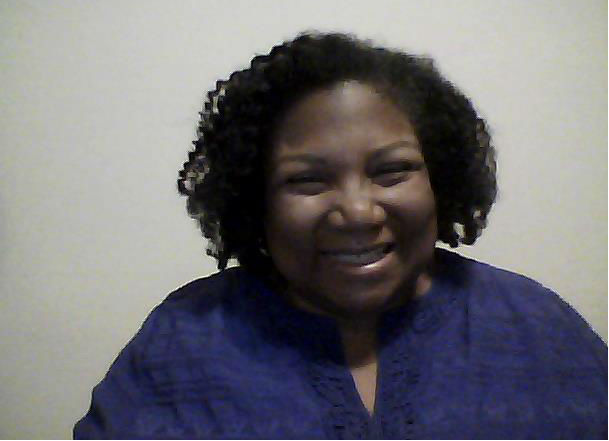
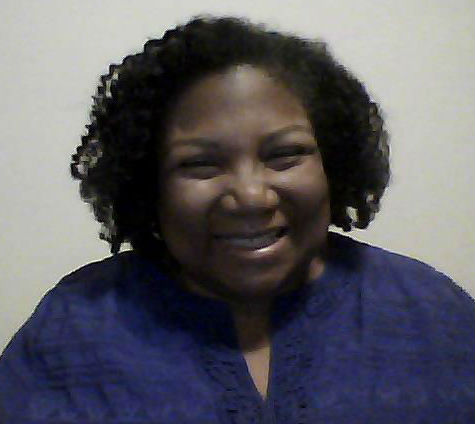
edited about me page

diff --git a/about.html b/about.html
@@ -14,9 +14,9 @@
 
         <meta name="author" content="">
 
-        
 
-        <title>:: avana LLC | About ::</title>
+
+        <title>About Annette</title>
 
 		<link rel="shortcut icon" href="images/favicon.ico" type="image/x-icon">
 
@@ -25,6 +25,7 @@
         <!-- style -->
 
         <link href="css/style.css" rel="stylesheet" type="text/css">
+        <link href="https://fonts.googleapis.com/css?family=Bungee+Hairline" rel="stylesheet">
 
         <!-- style -->
 
@@ -44,7 +45,7 @@
 
         <!-- font-awesome -->
 
-        
+
 
 	</head>
 
@@ -52,19 +53,19 @@
 
     <body>
 
-    
 
-    	<!-- header -->
 
-        	<header role="header">
+      <!-- header -->
 
-            	<div class="container">
+          <header role="header">
 
-                	<!-- logo -->
+              <div class="container">
 
-                    	<h1>
+                  <!-- logo -->
 
-                        	<a href="index.html" title="avana LLC"><img src="images/logo.png" title="avana LLC" alt="avana LLC"/></a>
+                      <h1 id="logo">
+
+                          <a href="index.html" title="Annette Olney">Annette Olney</a>
 
                         </h1>
 
@@ -76,9 +77,9 @@
 
                         <ul>
 
-                            <li><a href="index.html" title="Work">Work</a></li>
+                            <li class="nav-active"><a href="index.html" title="Work">Work</a></li>
 
-                            <li class="nav-active"><a href="about.html" title="About">About</a></li>
+                            <li><a href="about.html" title="About">About</a></li>
 
                             <li><a href="blog.html" title="Blog">Blog</a></li>
 
@@ -100,47 +101,45 @@
 
         <main role="main-inner-wrapper" class="container">
 
-        	
+
 
             <div class="row">
 
-            
+
 
             	<section class="col-xs-12 col-sm-6 col-md-6 col-lg-6 ">
 
                 	<article role="pge-title-content">
 
-                    	<header>
 
-                        	<h2><span>We Do</span> What we love to do.</h2>
+                        <img src="images/home-images/mainphoto2.jpg" alt="" />
+                        <header>
 
-                        </header>
 
-                        <p>Over 40,000 customers use our themes to power their websites and we love them.</p>
+                      </header>
 
                     </article>
 
                 </section>
 
-                
+
 
                 <section class="col-xs-12 col-sm-6 col-md-6 col-lg-6">
 
                 	<article class="about-content">
+                    <h2>About me</h2>
 
                     	<p>Claritas est etiam processus dynamicus, qui sequitur mutationem consuetudium lectorum. Mirum est notare quam littera gothica, quam nunc putamus parum claram, anteposuerit litterarum formas humanitatis per seacula quarta decima et quinta decima. Eodem modo typi, qui nunc, fiant sollemnes in futurum.</p>
-
-                        <p>Claritas est etiam processus dynamicus, qui sequitur mutationem consueum formas humanitatis per seacula quarta deciEodem modo tythepi, qui nunc, fiant sollemnes in futurum.</p>
 
                     </article>
 
                 </section>
 
-                
+
 
                 <div class="clearfix"></div>
 
-                
+
 
                 <!-- thumbnails -->
 
@@ -150,13 +149,13 @@
 
                         	<figure>
 
-                            	<img src="images/about-images/about-image-1.jpg" class="img-responsive"/>
+                            	<img src="images/home-images/mesaarm.png" class="img-responsive"/>
 
                             	<figcaption>
 
-                                	<h3>John Doe</h3>
+                                	<h3>MESA</h3>
 
-                                    <h5>The designer</h5>
+                                    <h5>Counselor</h5>
 
                                 </figcaption>
 
@@ -200,17 +199,17 @@
 
                         </section>
 
-                        
 
-                     
+
+
 
                     </div>
 
                 <!-- thumbnails -->
 
-                
 
-                
+
+
 
             </div>
 
@@ -270,7 +269,7 @@
 
         <!-- footer -->
 
-    
+
 
         <!-- jQuery (necessary for Bootstrap's JavaScript plugins) -->
 

diff --git a/index.html b/index.html
@@ -138,7 +138,7 @@
 
 							<p>My Mission ...</p>
 
-							<a href="works-details.html">View more</a>
+							<a href="about.html">View more</a>
 
                         </figcaption>
 
